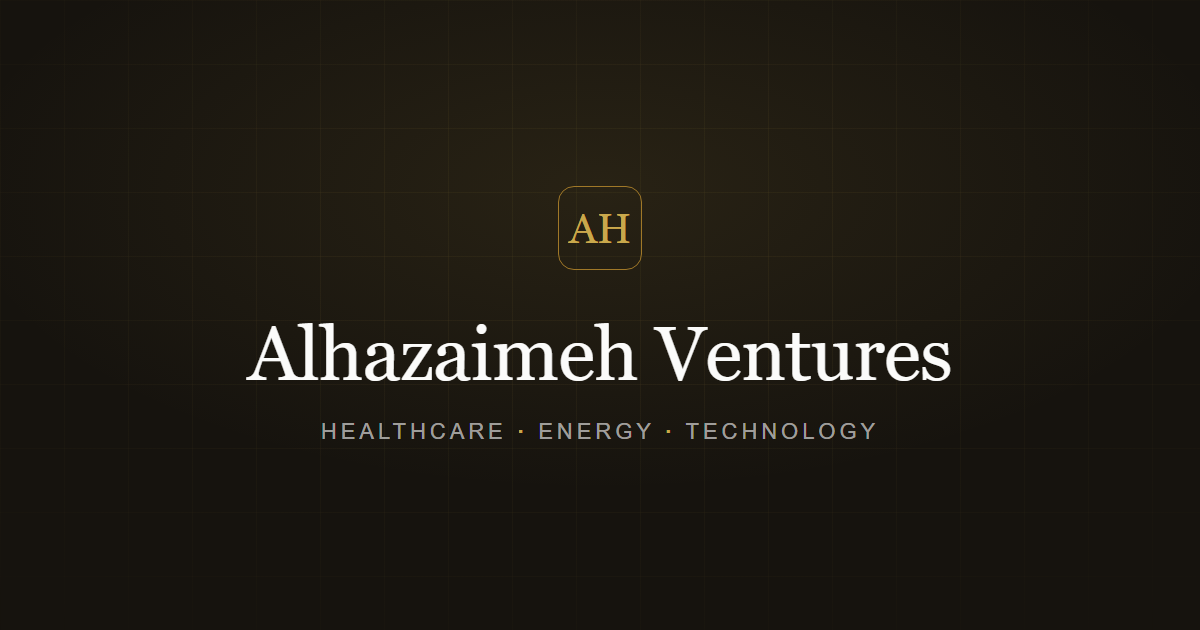
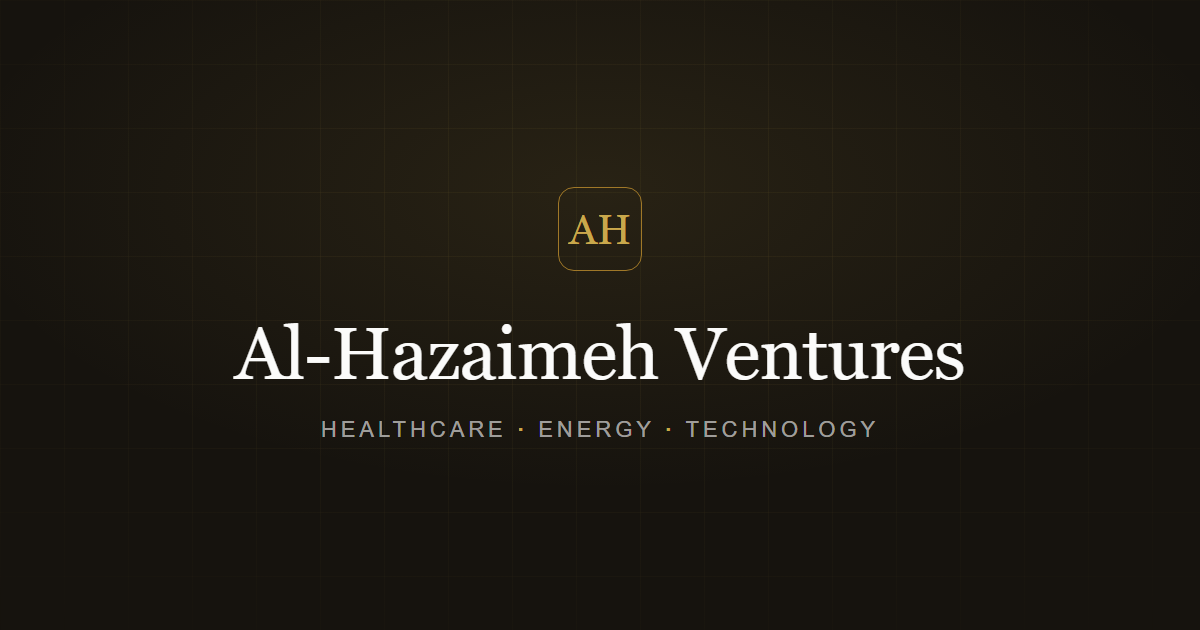
Rework Arabic: better fonts, readability, and corrected name
- Fix surname spelling to الهزايمة (was الحزايمة); Arabic brand is now
  مجموعة الهزايمة and the English wordmark is Al-Hazaimeh Ventures.
- Swap Arabic fonts to Amiri (headings) + IBM Plex Sans Arabic (body)
  for far better legibility than Markazi/Tajawal.
- Bump Arabic body size, line-height, and small-label sizes; heavier
  heading weights and leading for comfortable reading.
- Polish all Arabic copy into natural, professional MSA.
- Regenerate OG image and update meta with the Al-Hazaimeh wordmark.

diff --git a/src/i18n.jsx b/src/i18n.jsx
@@ -2,15 +2,15 @@ import { createContext, useContext, useState, useEffect, useCallback } from 'rea
 
 /* ── Content, English + Arabic ──────────────────────────────────────────
    UI strings and page content live here so the whole site can switch
-   language and reading direction. Names/brands are transliterated, not
-   invented. Status classes (colour) are language-independent and live in
-   the components. */
+   language and reading direction. English brand: "Al-Hazaimeh Ventures".
+   Arabic brand: "مجموعة الهزايمة" (surname spelled الهزايمة). Status classes
+   (colour) are language-independent and live in the components. */
 
 export const translations = {
   en: {
     dir: 'ltr',
     nav: {
-      brand: 'Alhazaimeh Ventures',
+      brand: 'Al-Hazaimeh Ventures',
       home: 'Home', about: 'About', contact: 'Contact',
       toggleLabel: 'العربية', toggleAria: 'التبديل إلى العربية',
     },
@@ -19,7 +19,7 @@ export const translations = {
       heroTitleA: "Building Tomorrow's",
       heroTitleB: 'Businesses Today',
       heroSub:
-        'Alhazaimeh Ventures is a family holding group with active operations across Healthcare, Energy, and Technology, driven by a commitment to long-term value and community impact.',
+        'Al-Hazaimeh Ventures is a family holding group with active operations across Healthcare, Energy, and Technology, driven by a commitment to long-term value and community impact.',
       ctaStory: 'Discover our story',
       ctaPartner: 'Partner with us',
       facts: [
@@ -64,12 +64,12 @@ export const translations = {
       heroTitleA: 'Built on Trust.',
       heroTitleB: 'Driven by Vision.',
       heroSub:
-        'Alhazaimeh Ventures is a family-led holding group with a simple belief: that good businesses are built patiently, purposefully, and with the community at heart.',
+        'Al-Hazaimeh Ventures is a family-led holding group with a simple belief: that good businesses are built patiently, purposefully, and with the community at heart.',
       missionTitle: 'A Holding Group with Deep Roots',
       missionP1:
         'Founded by Yousef Al-Hazaimeh, the group began with a single pharmacy and a commitment to quality care. Over the years that commitment expanded beyond healthcare, into energy infrastructure and proprietary technology, building a portfolio that serves communities at every level of daily life.',
       missionP2:
-        'Today, Alhazaimeh Ventures operates three pharmacies, is finalising a fuel and EV station, and is developing a proprietary technology platform for the pharmacy sector. Each venture is chosen not just for financial returns, but for the value it brings to the people we serve.',
+        'Today, Al-Hazaimeh Ventures operates three pharmacies, is finalising a fuel and EV station, and is developing a proprietary technology platform for the pharmacy sector. Each venture is chosen not just for financial returns, but for the value it brings to the people we serve.',
       pillars: [
         { icon: 'pharmacy', label: 'Healthcare', sub: '3 Pharmacies' },
         { icon: 'fuel', label: 'Energy', sub: 'Fuel & EV Station' },
@@ -104,7 +104,7 @@ export const translations = {
       leadership: [
         {
           name: 'Yousef Al-Hazaimeh', title: 'Founder & Chairman',
-          bio: 'With decades of entrepreneurial experience, Yousef built the group from a single pharmacy into a diversified holding company. His belief in community-centred business remains the foundation of everything Alhazaimeh Ventures does.',
+          bio: 'With decades of entrepreneurial experience, Yousef built the group from a single pharmacy into a diversified holding company. His belief in community-centred business remains the foundation of everything the group does.',
         },
         {
           name: 'Ayham Al-Hazaimeh', title: 'Managing Director',
@@ -156,18 +156,18 @@ export const translations = {
   ar: {
     dir: 'rtl',
     nav: {
-      brand: 'الحزايمة فينتشرز',
+      brand: 'مجموعة الهزايمة',
       home: 'الرئيسية', about: 'من نحن', contact: 'تواصل معنا',
       toggleLabel: 'English', toggleAria: 'Switch to English',
     },
     home: {
-      heroEyebrow: 'تأسست برؤية، وبُنيت للنمو',
-      heroTitleA: 'نبني أعمال',
-      heroTitleB: 'الغد اليوم',
+      heroEyebrow: 'تأسّست برؤية، وبُنيت للنمو',
+      heroTitleA: 'نبني أعمالَ الغد',
+      heroTitleB: 'اليوم',
       heroSub:
-        'الحزايمة فينتشرز مجموعة عائلية قابضة ذات عمليات نشطة في قطاعات الرعاية الصحية والطاقة والتكنولوجيا، مدفوعة بالتزامٍ بالقيمة طويلة الأمد والأثر المجتمعي.',
-      ctaStory: 'اكتشف قصتنا',
-      ctaPartner: 'كن شريكاً لنا',
+        'مجموعة الهزايمة مجموعةٌ عائلية قابضة ذات عملياتٍ نشطة في قطاعات الرعاية الصحية والطاقة والتكنولوجيا، يقودها التزامٌ بالقيمة طويلة الأمد والأثر في المجتمع.',
+      ctaStory: 'تعرّف على قصتنا',
+      ctaPartner: 'كُن شريكاً لنا',
       facts: [
         { n: '٣', label: 'صيدليات' },
         { n: '١', label: 'محطة وقود' },
@@ -175,86 +175,86 @@ export const translations = {
       ],
       venturesTitle: 'ثلاث ركائز للنمو',
       venturesSub:
-        'كل مشروع مبني على أسسٍ متينة، ومعرفةٍ محلية، وسعيٍ ثابت نحو التميّز التشغيلي.',
+        'كلُّ مشروعٍ مبنيٌّ على أسسٍ متينة، ومعرفةٍ محلية، وسعيٍ دؤوب نحو التميّز التشغيلي.',
       ventures: [
         {
           id: 'pharmacy', icon: 'pharmacy', sector: 'الرعاية الصحية', title: 'سلسلة صيدليات',
-          description: 'ثلاث صيدليات راسخة تخدم مجتمعاتها برعايةٍ دوائية موثوقة ومنتجاتٍ صحية.',
+          description: 'ثلاث صيدليات راسخة تخدم مجتمعاتها برعايةٍ دوائية موثوقة ومنتجاتٍ صحية يومية.',
           brands: ['صيدلية صدف', 'صيدلية كحل', 'صيدلية إدراك'],
           status: 'تعمل حالياً',
         },
         {
           id: 'fuel', icon: 'fuel', sector: 'الطاقة', title: 'محطة وقود وشحن كهربائي',
-          description: 'محطة وقود مصممة لخدمة المنطقة بوقودٍ عالي الجودة، وشحنٍ للمركبات الكهربائية، وخدماتٍ مريحة.',
+          description: 'محطة وقودٍ مصمَّمة لخدمة المنطقة بوقودٍ عالي الجودة، وشحنٍ للسيارات الكهربائية، وخدماتٍ مريحة.',
           brands: [], status: 'تُفتتح قريباً',
         },
         {
-          id: 'tech', icon: 'tech', sector: 'تكنولوجيا الرعاية الصحية', title: 'منصة تقنية خاصة',
-          description: 'منصة تقنية خاصة لقطاع الصيدلة، قيد التطوير حالياً بشكلٍ خاص. التفاصيل متاحة عند الطلب.',
+          id: 'tech', icon: 'tech', sector: 'تكنولوجيا الرعاية الصحية', title: 'منصّة تقنية خاصة',
+          description: 'منصّةٌ تقنية خاصة لقطاع الصيدلة، قيد التطوير حالياً بشكلٍ خاص. التفاصيل متاحة عند الطلب.',
           brands: [], status: 'قيد التطوير',
         },
       ],
       valuesTitle: 'مبادئنا الأساسية',
       values: [
-        { title: 'رؤية طويلة الأمد', desc: 'نستثمر لعقود لا لأرباع السنة. كل قرارٍ نتخذه يراعي الأثر الدائم.' },
-        { title: 'المجتمع أولاً', desc: 'صيدلياتنا ومحطتنا ومشاريعنا التقنية وُجدت لخدمة الناس من حولنا.' },
-        { title: 'التميّز التشغيلي', desc: 'من سلسلة التوريد إلى تجربة العميل، نلتزم بأعلى المعايير في كل التفاصيل.' },
-        { title: 'شراكات موثوقة', desc: 'نبني علاقاتنا مع الشركاء والمورّدين والجهات التنظيمية على النزاهة والمنفعة المتبادلة.' },
+        { title: 'رؤية طويلة الأمد', desc: 'نستثمر لعقودٍ لا لأرباع السنة، ونتّخذ كلَّ قرارٍ وعينُنا على أثره الدائم.' },
+        { title: 'المجتمع أوّلاً', desc: 'وُجدت صيدلياتنا ومحطّتنا ومشاريعنا التقنية لخدمة الناس من حولنا.' },
+        { title: 'التميّز التشغيلي', desc: 'من سلسلة التوريد إلى تجربة العميل، نلتزم بأعلى المعايير في كلِّ تفصيل.' },
+        { title: 'شراكات موثوقة', desc: 'نبني علاقاتنا مع الشركاء والموردين والجهات التنظيمية على النزاهة والمنفعة المتبادلة.' },
       ],
-      ctaTitle: 'مستعدّ لاستكشاف شراكة؟',
-      ctaText: 'سواءٌ كنت علامة تجارية أو مستثمراً أو مورّداً، يسعدنا أن نسمع منك.',
+      ctaTitle: 'هل أنت مستعدٌّ لاستكشاف شراكة؟',
+      ctaText: 'سواءٌ كنت علامةً تجارية أو مستثمراً أو مورّداً، يسعدنا أن نسمع منك.',
       ctaBtn: 'تواصل معنا',
     },
     about: {
       heroEyebrow: 'قصتنا',
-      heroTitleA: 'بُنيت على الثقة.',
-      heroTitleB: 'مدفوعة بالرؤية.',
+      heroTitleA: 'بُنيت على الثقة،',
+      heroTitleB: 'تقودها الرؤية.',
       heroSub:
-        'الحزايمة فينتشرز مجموعة عائلية قابضة تؤمن إيماناً بسيطاً: أن الأعمال الجيدة تُبنى بصبرٍ وهدفٍ والمجتمع في صميمها.',
-      missionTitle: 'مجموعة قابضة بجذورٍ عميقة',
+        'مجموعة الهزايمة مجموعةٌ عائلية قابضة تؤمن بفكرةٍ بسيطة: أنّ الأعمال الجيدة تُبنى بصبرٍ وهدفٍ، والمجتمع في صميمها.',
+      missionTitle: 'مجموعةٌ قابضة بجذورٍ عميقة',
       missionP1:
-        'أسّسها يوسف الحزايمة، وبدأت المجموعة بصيدلية واحدة والتزامٍ برعايةٍ عالية الجودة. وعبر السنين امتدّ ذلك الالتزام إلى ما هو أبعد من الرعاية الصحية، إلى البنية التحتية للطاقة والتكنولوجيا الخاصة، لتتكوّن محفظة تخدم المجتمعات في كل مستويات الحياة اليومية.',
+        'أسّسها يوسف الهزايمة، فبدأت المجموعة بصيدليةٍ واحدة والتزامٍ برعايةٍ عالية الجودة. ومع مرور السنين امتدّ هذا الالتزام إلى ما هو أبعد من الرعاية الصحية، نحو البنية التحتية للطاقة والتكنولوجيا الخاصة، لتنشأ محفظةٌ تخدم المجتمعات في كلِّ مستويات الحياة اليومية.',
       missionP2:
-        'اليوم، تُشغّل الحزايمة فينتشرز ثلاث صيدليات، وتُنجز محطة وقودٍ وشحنٍ كهربائي، وتطوّر منصة تقنية خاصة لقطاع الصيدلة. ويُختار كل مشروع لا للعائد المالي وحده، بل لما يقدّمه من قيمة للناس الذين نخدمهم.',
+        'واليوم، تُشغّل مجموعة الهزايمة ثلاث صيدليات، وتُنجز محطة وقودٍ وشحنٍ كهربائي، وتُطوّر منصّةً تقنية خاصة لقطاع الصيدلة. ويُختار كلُّ مشروعٍ لا لعائده المالي وحده، بل لِما يضيفه من قيمةٍ لِمن نخدمهم.',
       pillars: [
         { icon: 'pharmacy', label: 'الرعاية الصحية', sub: '٣ صيدليات' },
         { icon: 'fuel', label: 'الطاقة', sub: 'محطة وقود وشحن' },
         { icon: 'tech', label: 'التكنولوجيا', sub: 'قيد التطوير' },
       ],
-      timelineTitle: 'من صيدلية واحدة إلى مجموعة متنوعة',
+      timelineTitle: 'من صيدليةٍ واحدة إلى مجموعةٍ متنوّعة',
       timeline: [
-        { year: 'التأسيس', event: 'يؤسّس يوسف الحزايمة الصيدلية الأولى، ليضع حجر الأساس لما سيصبح مجموعةً متعددة القطاعات.' },
-        { year: 'النمو', event: 'تتوسّع محفظة الصيدليات إلى ثلاثة مواقع (صدف، كحل، وإدراك)، لتخدم آلاف العملاء في المنطقة.' },
-        { year: 'التنويع', event: 'ينضمّ أيهم الحزايمة إلى القيادة، وتتّجه المجموعة نحو قطاع الطاقة بمحطة وقودٍ وشحنٍ كهربائي جديدة.' },
-        { year: '٢٠٢٦', event: 'تقترب المحطة من الاكتمال، وتدخل منصة تقنية خاصة لقطاع الصيدلة مرحلة التطوير الخاص، إيذاناً بدخول المجموعة مجال تكنولوجيا الرعاية الصحية.' },
+        { year: 'التأسيس', event: 'يؤسّس يوسف الهزايمة الصيدلية الأولى، واضعاً حجر الأساس لِما سيغدو مجموعةً متعددة القطاعات.' },
+        { year: 'النمو', event: 'تتوسّع محفظة الصيدليات إلى ثلاثة مواقع (صدف، وكحل، وإدراك)، لتخدم آلاف العملاء في المنطقة.' },
+        { year: 'التنويع', event: 'ينضمّ أيهم الهزايمة إلى القيادة، فتتّجه المجموعة نحو قطاع الطاقة بمحطة وقودٍ وشحنٍ كهربائي جديدة.' },
+        { year: '٢٠٢٦', event: 'تقترب المحطة من الاكتمال، وتدخل منصّةٌ تقنية خاصة لقطاع الصيدلة مرحلة التطوير الخاص، إيذاناً بدخول المجموعة مجال تكنولوجيا الرعاية الصحية.' },
       ],
       venturesTitle: 'المشاريع',
       ventures: [
         {
           id: 'pharmacy', icon: 'pharmacy', title: 'سلسلة صيدليات', status: 'تعمل حالياً',
-          description: 'ثلاث صيدليات توفّر المنتجات الدوائية والاستشارات الصحية ورعاية المجتمع. ويعمل كل موقعٍ تحت علامته التجارية الموثوقة.',
+          description: 'ثلاث صيدليات توفّر المنتجات الدوائية والاستشارات الصحية ورعاية المجتمع، ويعمل كلُّ موقعٍ تحت علامته التجارية الموثوقة.',
           brands: ['صيدلية صدف', 'صيدلية كحل', 'صيدلية إدراك'],
         },
         {
-          id: 'fuel', icon: 'fuel', title: 'محطة وقود وشحن كهربائي', status: 'تُفتتح الربع الثالث ٢٠٢٦',
-          description: 'محطة وقودٍ وخدماتٍ مكتملة التجهيز في مرحلة البناء الأخيرة، مع منصّات شحنٍ للمركبات الكهربائية إلى جانب المضخّات التقليدية. صُمّمت حول السلامة والكفاءة وجودة الخدمة.',
+          id: 'fuel', icon: 'fuel', title: 'محطة وقود وشحن كهربائي', status: 'تُفتتح في الربع الثالث ٢٠٢٦',
+          description: 'محطة وقودٍ وخدماتٍ مكتملة التجهيز في مرحلة البناء الأخيرة، مع منصّات شحنٍ للسيارات الكهربائية إلى جانب المضخّات التقليدية، صُمّمت حول السلامة والكفاءة وجودة الخدمة.',
           brands: [],
         },
         {
-          id: 'tech', icon: 'tech', title: 'منصة تقنية خاصة', status: 'قيد التطوير',
-          description: 'منصة تقنية خاصة لقطاع الصيدلة، قيد التطوير حالياً بشكلٍ خاص. التفاصيل متاحة عند الطلب.',
+          id: 'tech', icon: 'tech', title: 'منصّة تقنية خاصة', status: 'قيد التطوير',
+          description: 'منصّةٌ تقنية خاصة لقطاع الصيدلة، قيد التطوير حالياً بشكلٍ خاص. التفاصيل متاحة عند الطلب.',
           brands: [],
         },
       ],
       leadershipTitle: 'القيادة',
       leadership: [
         {
-          name: 'يوسف الحزايمة', title: 'المؤسس ورئيس مجلس الإدارة',
-          bio: 'بخبرةٍ ريادية تمتدّ لعقود، بنى يوسف المجموعة من صيدلية واحدة إلى شركة قابضة متنوّعة. ويبقى إيمانه بالأعمال المتمحورة حول المجتمع أساس كل ما تقوم به الحزايمة فينتشرز.',
+          name: 'يوسف الهزايمة', title: 'المؤسّس ورئيس مجلس الإدارة',
+          bio: 'بخبرةٍ ريادية تمتدّ لعقود، بنى يوسف المجموعة من صيدليةٍ واحدة إلى شركةٍ قابضة متنوّعة. ويبقى إيمانه بالأعمال المتمحورة حول المجتمع أساساً لكلِّ ما تقوم به المجموعة.',
         },
         {
-          name: 'أيهم الحزايمة', title: 'المدير التنفيذي',
-          bio: 'يقود أيهم العمليات اليومية والنمو الاستراتيجي عبر القطاعات الثلاثة: استكشاف أسواقٍ جديدة، وبناء الشراكات، وقيادة الفصل التالي من مسيرة المجموعة.',
+          name: 'أيهم الهزايمة', title: 'المدير التنفيذي',
+          bio: 'يقود أيهم العمليات اليومية والنمو الاستراتيجي عبر القطاعات الثلاثة: استكشاف الأسواق الجديدة، وبناء الشراكات، وقيادة الفصل التالي من مسيرة المجموعة.',
         },
       ],
     },
@@ -262,9 +262,9 @@ export const translations = {
       heroEyebrow: 'لنتواصل',
       heroTitleA: 'تواصل ', heroTitleB: 'معنا',
       heroSub:
-        'سواءٌ كنت علامة تجارية تستكشف شراكة، أو مستثمراً، أو مورّداً، فنحن دائماً منفتحون على الحوارات الهادفة.',
+        'سواءٌ كنت علامةً تجارية تستكشف شراكة، أو مستثمراً، أو مورّداً، فنحن دائماً منفتحون على الحوارات الهادفة.',
       detailsTitle: 'بيانات التواصل',
-      labelEmail: 'البريد الإلكتروني', labelWebsite: 'الموقع الإلكتروني', labelOps: 'العمليات',
+      labelEmail: 'البريد الإلكتروني', labelWebsite: 'الموقع الإلكتروني', labelOps: 'مجالات العمل',
       opsValue: 'الرعاية الصحية · الطاقة · التكنولوجيا',
       topicsTitle: 'ما نرحّب به',
       topics: [
@@ -281,9 +281,9 @@ export const translations = {
       send: 'إرسال الرسالة', sending: 'جارٍ الإرسال…',
       errName: 'الرجاء إدخال اسمك.',
       errEmail: 'الرجاء إدخال بريدٍ إلكتروني صحيح.',
-      errMessage: 'الرجاء إدخال رسالة.',
-      errSubmit: 'حدث خطأ ما. الرجاء مراسلتنا مباشرة عبر البريد.',
-      sentTitle: 'تم إرسال الرسالة', sentText: 'شكراً لتواصلك معنا. سنعاود الرد عليك قريباً.',
+      errMessage: 'الرجاء كتابة رسالتك.',
+      errSubmit: 'تعذّر الإرسال. الرجاء مراسلتنا مباشرةً عبر البريد الإلكتروني.',
+      sentTitle: 'تم إرسال رسالتك', sentText: 'شكراً لتواصلك معنا، سنعاود الردّ عليك قريباً.',
       sentAgain: 'إرسال رسالة أخرى',
     },
     footer: {

diff --git a/src/index.css b/src/index.css
@@ -555,13 +555,59 @@ p { text-wrap: pretty; }
 [dir="rtl"] .value-card__line { margin-inline-start: auto; }
 [dir="rtl"] .hero__facts li + li::before { left: auto; right: -22px; }
 
-/* ── ARABIC TYPOGRAPHY ── */
+/* ── ARABIC TYPOGRAPHY ──
+   Amiri (elegant Naskh serif) mirrors Cormorant for headings; IBM Plex
+   Sans Arabic mirrors Inter for body. Arabic needs more size and leading
+   to read comfortably, so base size, line-height, and small labels are
+   bumped up across the board. */
 html[lang="ar"] {
-  --font-serif: 'Markazi Text', 'Cormorant Garamond', Georgia, serif;
-  --font-sans: 'Tajawal', 'Inter', system-ui, sans-serif;
+  --font-serif: 'Amiri', 'Cormorant Garamond', Georgia, serif;
+  --font-sans: 'IBM Plex Sans Arabic', 'Inter', system-ui, sans-serif;
 }
-html[lang="ar"] body { line-height: 1.8; }
-html[lang="ar"] .hero__title, html[lang="ar"] .page-hero h1 { line-height: 1.2; font-weight: 500; }
+html[lang="ar"] body { font-size: 17px; line-height: 1.95; }
+
+/* Headings: Amiri reads light at display sizes, so add weight + leading */
+html[lang="ar"] .hero__title { line-height: 1.35; font-weight: 700; }
+html[lang="ar"] .page-hero h1 { line-height: 1.4; font-weight: 700; }
+html[lang="ar"] .section__header h2,
+html[lang="ar"] .mission-block__text h2,
+html[lang="ar"] .cta-banner h2,
+html[lang="ar"] .contact-info h2,
+html[lang="ar"] .contact-form h2 { line-height: 1.5; font-weight: 700; }
+html[lang="ar"] .venture-card h3,
+html[lang="ar"] .venture-detail-card__header h3,
+html[lang="ar"] .leader-card h3,
+html[lang="ar"] .value-card h4 { line-height: 1.5; font-weight: 700; }
+
+/* Body copy: larger, airier for legibility */
+html[lang="ar"] .hero__sub,
+html[lang="ar"] .page-hero__sub,
+html[lang="ar"] .section__sub,
+html[lang="ar"] .venture-card__desc,
+html[lang="ar"] .value-card p,
+html[lang="ar"] .mission-block__text p,
+html[lang="ar"] .timeline__event,
+html[lang="ar"] .venture-detail-card > p,
+html[lang="ar"] .leader-card__bio,
+html[lang="ar"] .contact-topic,
+html[lang="ar"] .pillar-badge__text span,
+html[lang="ar"] .footer__links a,
+html[lang="ar"] .footer__contact a,
+html[lang="ar"] .footer__contact p { font-size: 15.5px; line-height: 1.95; }
+
+/* Small labels / UI: nudge up so Arabic stays readable */
+html[lang="ar"] .navbar__links a { font-size: 14px; }
+html[lang="ar"] .eyebrow, html[lang="ar"] .hero__eyebrow { font-size: 13px; }
+html[lang="ar"] .venture-card__sector { font-size: 12px; }
+html[lang="ar"] .venture-card__status { font-size: 12px; }
+html[lang="ar"] .btn, html[lang="ar"] .lang-toggle { font-size: 14px; }
+html[lang="ar"] .contact-item__label,
+html[lang="ar"] .form-group label,
+html[lang="ar"] .contact-topics h4,
+html[lang="ar"] .footer__links h4,
+html[lang="ar"] .footer__contact h4 { font-size: 13px; }
+html[lang="ar"] .pillar-badge__text strong { font-size: 15px; }
+
 /* Letter-spacing breaks Arabic letter joining; reset on tracked elements */
 html[lang="ar"] .eyebrow, html[lang="ar"] .hero__eyebrow, html[lang="ar"] .navbar__links a,
 html[lang="ar"] .btn, html[lang="ar"] .lang-toggle, html[lang="ar"] .venture-card__sector,
@@ -569,5 +615,5 @@ html[lang="ar"] .venture-card__status, html[lang="ar"] .contact-item__label,
 html[lang="ar"] .contact-topics h4, html[lang="ar"] .form-group label,
 html[lang="ar"] .leader-card__title, html[lang="ar"] .footer__links h4,
 html[lang="ar"] .footer__contact h4, html[lang="ar"] .footer__tagline,
-html[lang="ar"] .footer__bottom p, html[lang="ar"] .stat__label,
-html[lang="ar"] .timeline__year { letter-spacing: normal; }
+html[lang="ar"] .footer__bottom p, html[lang="ar"] .timeline__year,
+html[lang="ar"] .navbar__logo { letter-spacing: normal; }

diff --git a/index.html b/index.html
@@ -5,13 +5,13 @@
     <link rel="icon" type="image/svg+xml" href="/favicon.svg" />
     <meta name="viewport" content="width=device-width, initial-scale=1.0" />
     <meta name="theme-color" content="#16130E" />
-    <meta name="description" content="Alhazaimeh Ventures is a family holding group with operations across Healthcare, Energy, and Technology." />
-    <title>Alhazaimeh Ventures · Building Tomorrow's Businesses</title>
+    <meta name="description" content="Al-Hazaimeh Ventures is a family holding group with operations across Healthcare, Energy, and Technology." />
+    <title>Al-Hazaimeh Ventures · Building Tomorrow's Businesses</title>
 
     <!-- Open Graph / social -->
     <meta property="og:type" content="website" />
-    <meta property="og:site_name" content="Alhazaimeh Ventures" />
-    <meta property="og:title" content="Alhazaimeh Ventures" />
+    <meta property="og:site_name" content="Al-Hazaimeh Ventures" />
+    <meta property="og:title" content="Al-Hazaimeh Ventures" />
     <meta property="og:description" content="A family holding group with operations across Healthcare, Energy, and Technology." />
     <meta property="og:url" content="https://alhazaimeh-ventures.com/" />
     <meta property="og:image" content="https://alhazaimeh-ventures.com/og-image.png" />
@@ -20,13 +20,13 @@
     <meta property="og:locale" content="en_US" />
     <meta property="og:locale:alternate" content="ar_JO" />
     <meta name="twitter:card" content="summary_large_image" />
-    <meta name="twitter:title" content="Alhazaimeh Ventures" />
+    <meta name="twitter:title" content="Al-Hazaimeh Ventures" />
     <meta name="twitter:description" content="A family holding group with operations across Healthcare, Energy, and Technology." />
     <meta name="twitter:image" content="https://alhazaimeh-ventures.com/og-image.png" />
 
     <link rel="preconnect" href="https://fonts.googleapis.com">
     <link rel="preconnect" href="https://fonts.gstatic.com" crossorigin>
-    <link href="https://fonts.googleapis.com/css2?family=Cormorant+Garamond:wght@300;400;500;600&family=Inter:wght@300;400;500;600&family=Markazi+Text:wght@400;500;600&family=Tajawal:wght@400;500;700&display=swap" rel="stylesheet">
+    <link href="https://fonts.googleapis.com/css2?family=Cormorant+Garamond:wght@300;400;500;600&family=Inter:wght@300;400;500;600&family=Amiri:wght@400;700&family=IBM+Plex+Sans+Arabic:wght@300;400;500;600;700&display=swap" rel="stylesheet">
   </head>
   <body>
     <div id="root"></div>
